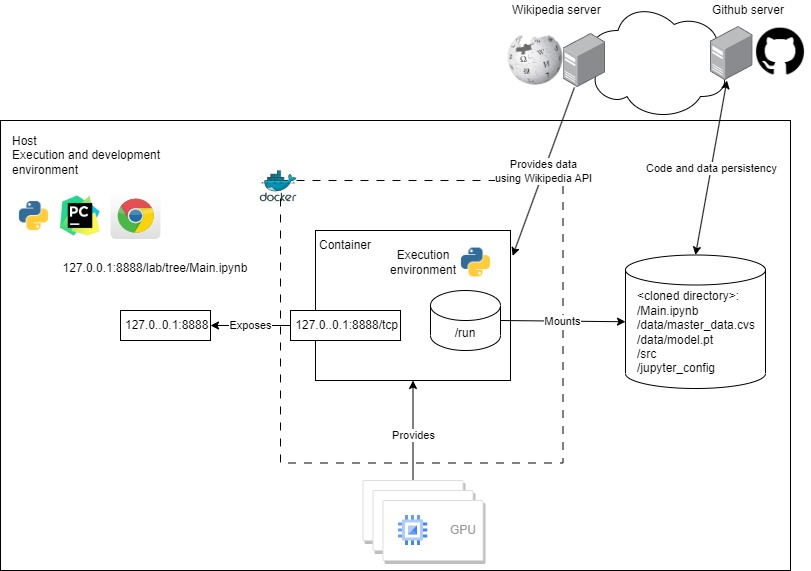
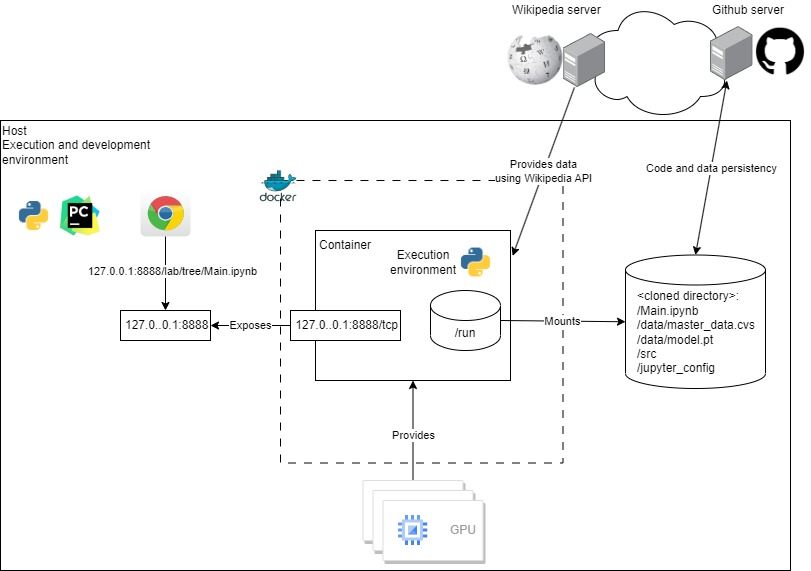
pred

Changed region(s): [[0.0, 0.2084, 0.185, 0.3275], [0.0617, 0.4466, 0.3083, 0.5061], [0.1233, 0.3275, 0.2466, 0.4168]]

diff --git a/README.md b/README.md
@@ -29,11 +29,8 @@ The figure below depicts the deployment layout.
 Has the following purposes:
 - **Development platform**: While developing the solution a Linux Ubuntu-22.04 (WSL) is used as the development platform. 
 It hosts the IDE along with all the necessary environment, tools and libraries for image creation, easy execution and testing  
-- **Execution platform** for the target image:
-  - GPUs
-  - Docker server
-  - Docker registry
-  - File server for Docker image persistency
+- **Execution platform**: for the target image, providing GPU hardware, Docker server, Docker registry (unless a registry service is used)
+File server for content peristency
   
 ### Wikipedia server
 Acts as the data source, data is retrieved using the [Wikipedia API](https://www.mediawiki.org/wiki/API:Main_page) 
@@ -57,7 +54,7 @@ The target image:
 |     start.sh      |   File    | Jupyter notebook startup script, command line for development purpose or Docker image entry point | 
 |      test.sh      |   File    | Scrpt launching the unit tests |
 |  jupyter_config   | Directory | Contains the Jupyter notebook configuraiton |
-|       data        | Directory | Contains the saved master data and regression trained model |
+|       data        | Directory | Contains the saved master data and regression model |
 |        src        | Directory | Contains the main library source code |
 |       test        | Directory | Contains the main library test scripts| 
 
@@ -80,8 +77,8 @@ This is a demo/assignment application, because of time constrainte it contains t
 - Windows 11
 - Ubuntu-22.04 in the Windows 11 WSL2 environment
 - Docker service
-- Python 3.10.x
-- Pip 22.x.y
+- Python 3.10.x (development only)
+- Pip 22.x.y (development only)
 - Optional Nvidia GPU graphic card
 - Optionally Nvidia prerequisites, setup procedure may be found [here](https://developer.nvidia.com/cuda-downloads) 
 - Optionally Nvidia docker support procedure may be found [here](https://docs.nvidia.com/datacenter/cloud-native/container-toolkit/latest/install-guide.html)
@@ -114,15 +111,26 @@ cd assignment
 ```
 - Using a browser go to [http://localhost:8888/lab/tree/Main.ipynb](http://localhost:8888/lab/tree/Main.ipynb)
 - Stop the docker image by issuing Ctrl+C in the console
+
 ### Experimentation in the browser Jupyter notebook
 - Import the API module
-```commandline
+```python
 import importlib
 import museums
-import matplotlib.pyplot as plt
-importlib.reload(museums)
+# This is required for development purpose to ensure that the library is reloaded by Jupyter when the code cell is ran
+importlib.reload(museums)    
 ```
-- Download the data
-```commandline
+- Download the data from Wikipedia [Museums page](https://en.wikipedia.org/wiki/List_of_most_visited_museums) and 
+[Cities page](https://en.wikipedia.org/wiki/List_of_largest_cities), some data customization is specified in the museums 
+module for: 1. Missing populations (**custom_population** argument) and (2. ) 
+```python
+museums.download_data(custom_locations = True, custom_population = True)
+```
+- Create master
+```python
+museums.create_master_data(True, True)
+```
 
-```
+### API reference - Data management
+
+### API reference - Model management
